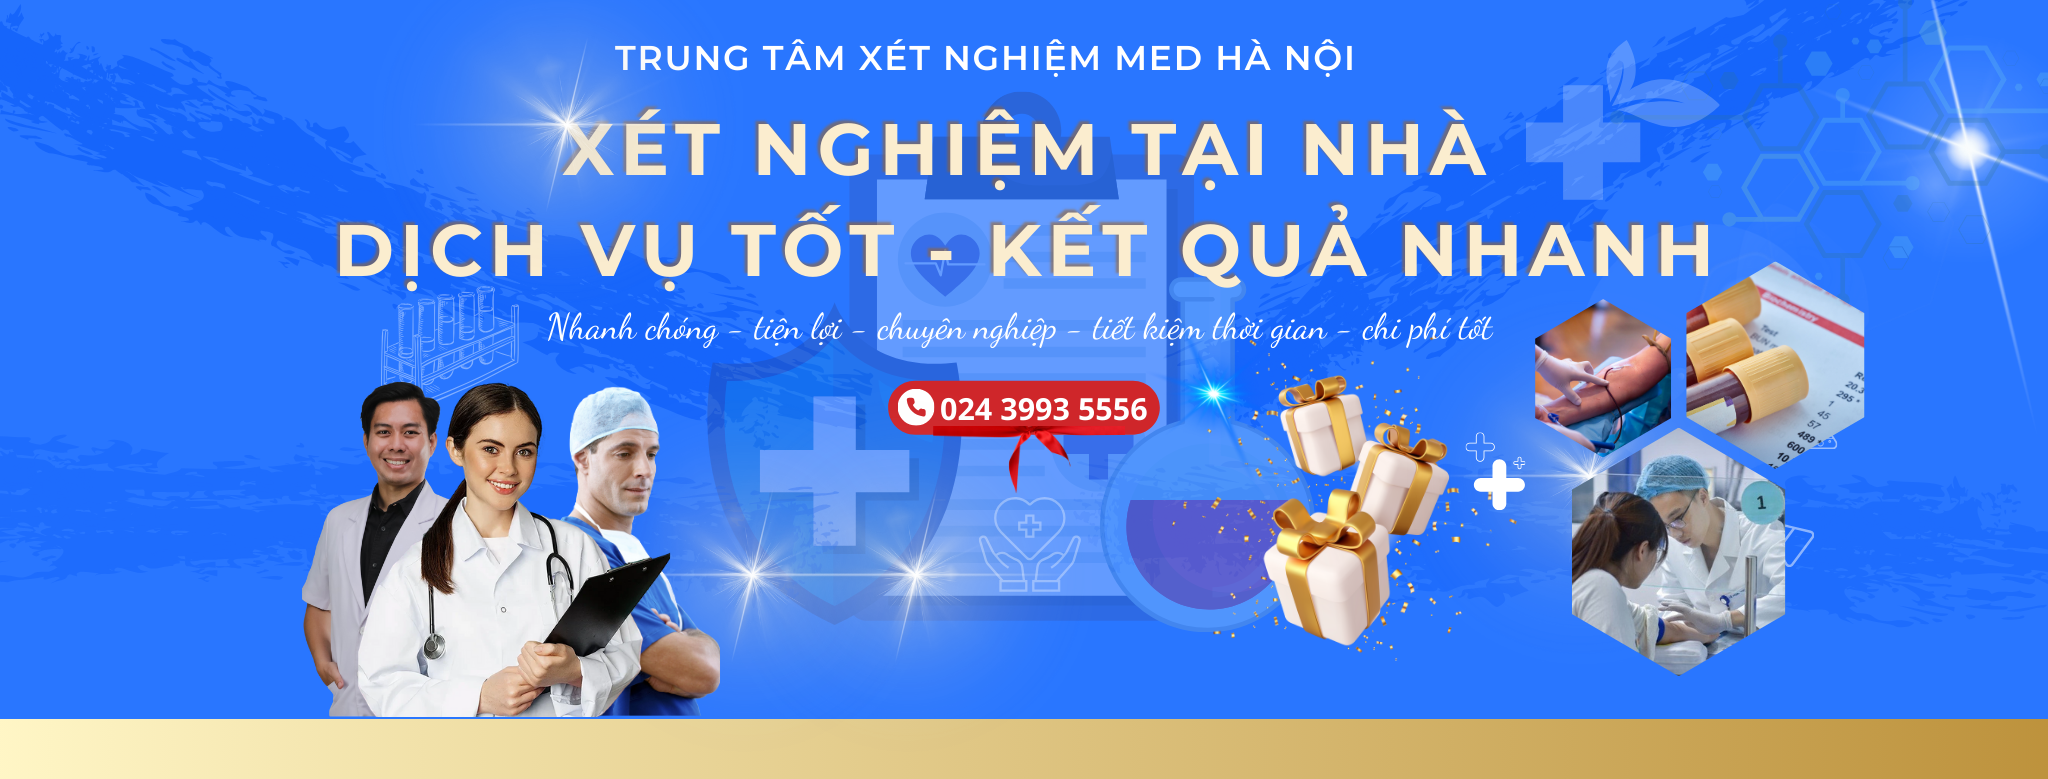
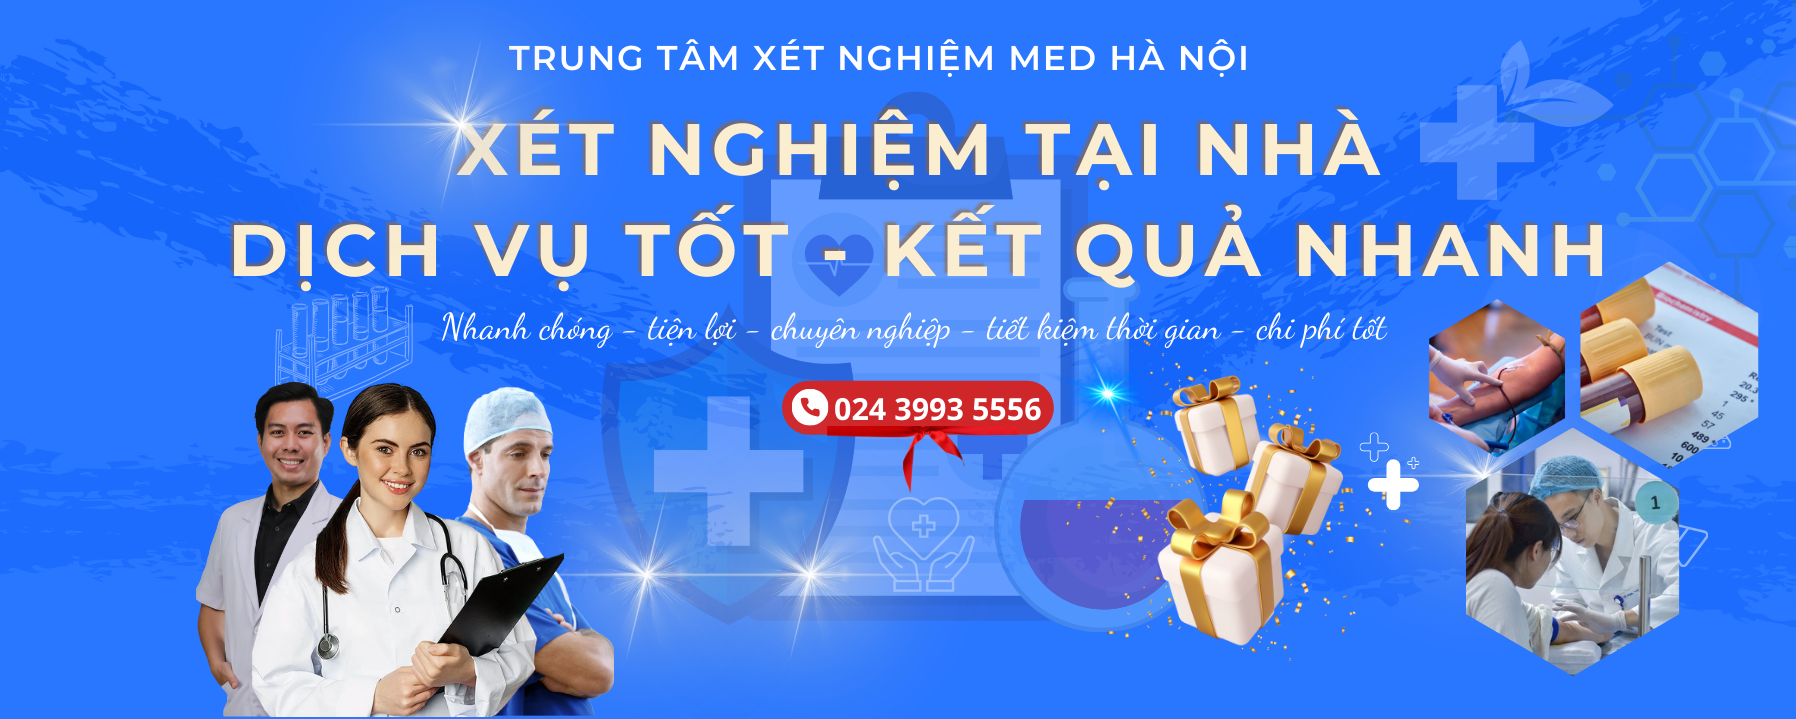
f

diff --git a/public/clients/css/templatemo.css b/public/clients/css/templatemo.css
@@ -410,10 +410,10 @@ footer a.text-light:hover {
 } */
 @media (max-width:2560px ) {
   #index_banner .carousel-inner {
-    height: 93vh;
+    height: 66vh;
   }
   .banner-wrapper{
-    margin-top: 0px !important;
+    margin-top: 89px !important;
   }
  .image-logo{
     width:8%
@@ -463,7 +463,7 @@ footer a.text-light:hover {
 }
 @media (max-width:767px ) {
   #index_banner .carousel-inner {
-    height: 29vh;
+    height: 19vh;
     /* background: #1d363d57; */
   }
   .banner-wrapper{
@@ -485,7 +485,7 @@ footer a.text-light:hover {
 }
 @media (max-width:425px ) {
   #index_banner .carousel-inner {
-    height: 10rem;
+    height: 9rem;
     /* background: #1d363d57; */
   }
   .banner-wrapper{

diff --git a/resources/views/client/AppointmentAtHome/Infusion/InfusionAppointement.blade.php b/resources/views/client/AppointmentAtHome/Infusion/InfusionAppointement.blade.php
@@ -45,7 +45,7 @@
 <link rel="stylesheet" href="../clients/css/style.css">
     <!-- Start Banner Hero -->
     <!-- Start Banner Hero -->
-    <div class="banner-wrapper bg-light" >
+    <div class="banner-wrapper bg-light" style="margin-top: 1rem;">
         <div id="index_banner" class="banner-vertical-center-index">
             <!-- Start slider -->
             <div id="carouselExampleIndicators" class="carousel slide" data-bs-ride="carousel">
@@ -54,46 +54,48 @@
                 </ol> -->
                 <div class="carousel-inner active pt-4" >
                      <!-- Start Contact -->
-                     <div class="list-hispital-home-one pt-5">
+                     <!-- <div class="list-hispital-home-one pt-5">
                         <section class="banner-bg">
-                        <!-- style="animation: lights 4s 750ms linear infinite;" -->
-                            <center>
-                                <span class="text-title-home anime-title" style=" padding-top: 20px;"> TRUYỀN DỊCH TẠI NHÀ</span> <br>
-                            </center>
                         </section>
-                     </div>
-                     <!-- <div class="test"></div> -->
-
-                    <!-- End Contact -->
-                    <div class="carousel-item active list-hispital-home pt-3">
-                        <div class=" row d-flex align-items-center">
-                            <div class="banner-content col-lg-8 col-8 offset-2 m-lg-auto text-center ">
-                                <div class="row g-lg-5 mb-4">
-                                    
-                                <center>
-                                    <div class="col-md-6 mb-4">
-                                        <a href="{{url('/client/appointmentathome/tab2/')}}/truyendich" class="card border-0 shadow-lg overflow-hidden">
-                                            <img class="recent-work-img card-img" style="height: 150px;object-fit: cover;" src="{{url('/clients/img/laymautainha.jpeg')}}" alt="Card image">
-                                            <div class="recent-work-vertical card-img-overlay d-flex align-items-end">
-                                                <div style="background: #00000091;border-radius: 5px" class="recent-work-content text-start mb-3 ml-3 text-dark">
-                                                    <h3 class="card-title" style="font-weight: 600;;padding:10px;font-size: 15px !important;font-family: auto;">Dịch vụ truyền dịch tại nhà - Tiêm thuốc theo chỉ định của bác sĩ</h3>
-                                                </div>
-                                            </div>
-                                        </a>
-                                        <br>
-                                        <a href="{{url('/client/appointmentathome/tab2/')}}/truyendich">
-                                            <span style="padding: 25px;;background: #ffba4b; color: #0d1226;" class="btn btn-outline-light rounded-pill">Đặt lịch truyền</span>
-                                        </a>
-                                    </div>
-                                </center>
-                                </div>
-                            </div>
-                        </div>
-                    </div>
+                     </div> -->
                 </div>
             </div>
         </div>
     </div>
+    <center>
+        <!-- <div class="col-md-6 mb-4 pt-4">
+            <a href="{{url('/client/appointmentathome/tab2/')}}/truyendich" class="card border-0 shadow-lg overflow-hidden">
+                <img class="recent-work-img card-img" style="height: 150px;object-fit: cover;" src="{{url('/clients/img/laymautainha.jpeg')}}" alt="Card image">
+                <div class="recent-work-vertical card-img-overlay d-flex align-items-end">
+                    <div style="background: #00000091;border-radius: 5px" class="recent-work-content text-start mb-3 ml-3 text-dark">
+                        <h3 class="card-title" style="font-weight: 600;;padding:10px;font-size: 15px !important;font-family: auto;">Dịch vụ truyền dịch tại nhà - Tiêm thuốc theo chỉ định của bác sĩ</h3>
+                    </div>
+                </div>
+            </a>
+            <br>
+            <a href="{{url('/client/appointmentathome/tab2/')}}/truyendich">
+                <span style="padding: 25px;;background: #ffba4b; color: #0d1226;" class="btn btn-outline-light rounded-pill">Đặt lịch truyền</span>
+            </a>
+        </div> -->
+
+        <div class="col-md-6 mb-4">
+                    <a href="{{url('/client/appointmentathome/tab2/')}}/truyendich" class="recent-work card border-0 shadow-lg overflow-hidden">
+                        <img class="recent-work-img card-img" style="height: 250px;object-fit: cover;" src="{{url('/clients/img/truyentainha1.jpeg')}}" alt="Card image">
+                        <div class="recent-work-vertical card-img-overlay d-flex align-items-end">
+                            <div style="border-radius: 5px" class="recent-work-content text-start mb-3 ml-3 text-dark">
+                                <div style="background: #486289a8;padding: 10px;border-radius: 10px;color: #ffffff;">
+                                    <h3 style="font-size: 23 !important;font-family: serif;color: #ffffff;font-weight: 700;">Dịch vụ truyền dịch tại nhà</h3>
+                                    <span  class="blogReader">Giúp khách hàng được chăm sóc tại chính ngôi nhà của bạn hơn thế tiết kiệm thời gian đi lại, mức chi phí hợp lý.</span> <br>
+                                    <center>
+                                            <span style="background: #f1fffd;color: #ff6a20;font-weight: 700;width: 150px;" class="btn btn-outline-light rounded-pill">Đặt lịch truyền</span>
+                                    </center>
+                                </div>
+                               
+                            </div>
+                        </div>
+                    </a>
+                </div>
+    </center>
     <!-- Start Banner Hero -->
     <section class="bg-light w-100">
         <div class="container">

diff --git a/resources/views/client/AppointmentAtHome/Infusion/home.blade.php b/resources/views/client/AppointmentAtHome/Infusion/home.blade.php
@@ -10,17 +10,10 @@
 </style>
 <link rel="stylesheet" href="../clients/css/style.css">
     <!-- Start Banner Hero -->
-    <div class="banner-wrapper bg-light" >
-        <div id="index_banner" class="banner-vertical-center-index">
-            <!-- Start slider -->
+    <div class="bg-light" >
+        <!-- <div id="index_banner" class="banner-vertical-center-index"> -->
             <div id="carouselExampleIndicators" class="carousel slide" data-bs-ride="carousel">
-                <div class="carousel-inner active pt-5" >
-                     <!-- <div class="list-hispital-home-one pt-5">
-                        <section class="banner-bg">
-                            <span  class="text-title-home "><center> ĐĂNG KÝ KHÁM NHANH</center></span>
-                        </section>
-                        
-                     </div> -->
+                <div class="carousel-inner active" >
                      
                     <!-- End Contact -->
                     <div class="carousel-item active list-hispital-home" >
@@ -28,7 +21,7 @@
                             <div class="banner-content col-lg-8 col-10 offset-1 m-lg-auto text-left ">
                                 <div class="row g-lg-5 mb-4">
                                     <div class="banner-wrapper w-100" style="background:#ffffffba;color:black">
-                                        <div class="row g-lg-5 mb-4">
+                                        <!-- <div class="row g-lg-5 mb-4">
                                             <div class="banner-wrapper w-100 py-3" style="background:#15283dd6">
                                                 <div class="list-group wrapper pb-0 px-3">
                                                     <a class="col-sm-6 col-lg-12 text-decoration-none text-light">
@@ -39,7 +32,27 @@
                                                             <div class="col-lg-1 "></div>
                                                             <div class="col-lg-8 ">
                                                             <span  class="text-title-home" style="color:#ff9300"><center> Truyền dịch tại nhà - Tiêm thuốc theo chỉ định của bác sĩ</center></span>
-                                                            <!-- <span  style="font-size:20px">Việc làm truyền dịch tại nhà giúp tiết kiệm thời gian và công sức di chuyển đến cơ sở y tế. Người dùng có thể sắp xếp thời gian và địa điểm phù hợp cho việc làm truyền dịch.</span> -->
+                                                        </div>
+                                                        </div>
+                                                    </a>
+                                                </div>
+                                            </div>
+                                        </div> -->
+                                        <div class="row g-lg-5 mb-4">
+                                            <div class="banner-wrapper w-100 py-3">
+                                                <div class="list-group wrapper pb-0 px-3">
+                                                    <a class="col-sm-6 col-lg-12 text-decoration-none text-light">
+                                                        <div class="d-lg-flex gx-5">
+                                                            <div class="col-lg-1">
+                                                                <!-- <center>
+                                                                <img class="card-img-top" src="{{url('/clients/img/logoMed.webp')}}" style="width:120px;object-fit: cover;" alt="...">
+
+                                                                </center> -->
+                                                            </div>
+                                                            <div class="col-lg-1 "></div>
+                                                            <div class="col-lg-8 ">
+                                                            <span  class="text-title-home" style="color:#000000"><center> Truyền dịch tại nhà</center></span>
+                                                            <span  style="font-size:15px;color:#577391">Truyền dịch tại nhà theo chỉ định của bác sĩ.</span>
                                                         </div>
                                                         </div>
                                                     </a>
@@ -143,7 +156,7 @@
                     <!-- Start Banner Hero -->
                 </div>
             </div>
-        </div>
+        <!-- </div> -->
     </div>
 <div class="modal fade" id="editmodal" role="dialog"></div>
 <div class="modal " id="addfile" role="dialog"></div>

diff --git a/resources/views/client/AppointmentAtHome/home.blade.php b/resources/views/client/AppointmentAtHome/home.blade.php
@@ -144,11 +144,11 @@
 </style>
 <link rel="stylesheet" href="../clients/css/style.css">
     <!-- Start Banner Hero -->
-    <div class="banner-wrapper bg-light" >
+    <div class="bg-light" >
         <div class="banner-vertical-center-index">
             <!-- Start slider -->
             <div id="carouselExampleIndicators" class="carousel slide" data-bs-ride="carousel">
-                <div class="carousel-inner active pt-5" >
+                <div class="carousel-inner active" >
                      <!-- <div class="list-hispital-home-one pt-5">
                         <section class="banner-bg">
                             <span  class="text-title-home "><center> ĐĂNG KÝ KHÁM NHANH</center></span>
@@ -167,11 +167,11 @@
                                                 <div class="list-group wrapper pb-0 px-3">
                                                     <a class="col-sm-6 col-lg-12 text-decoration-none text-light">
                                                         <div class="d-lg-flex gx-5">
-                                                            <div class="col-lg-2">
-                                                                <center>
+                                                            <div class="col-lg-1">
+                                                                <!-- <center>
                                                                 <img class="card-img-top" src="{{url('/clients/img/logoMed.webp')}}" style="width:120px;object-fit: cover;" alt="...">
 
-                                                                </center>
+                                                                </center> -->
                                                             </div>
                                                             <div class="col-lg-1 "></div>
                                                             <div class="col-lg-8 ">

diff --git a/resources/views/client/AppointmentAtHome/homeAppointement.blade.php b/resources/views/client/AppointmentAtHome/homeAppointement.blade.php
@@ -34,6 +34,7 @@
   overflow-y: hidden;
   white-space: nowrap;
   scroll-snap-type: x mandatory;
+  background:#ffefd2;
 }
 .scroll-item {
   margin: 2px;
